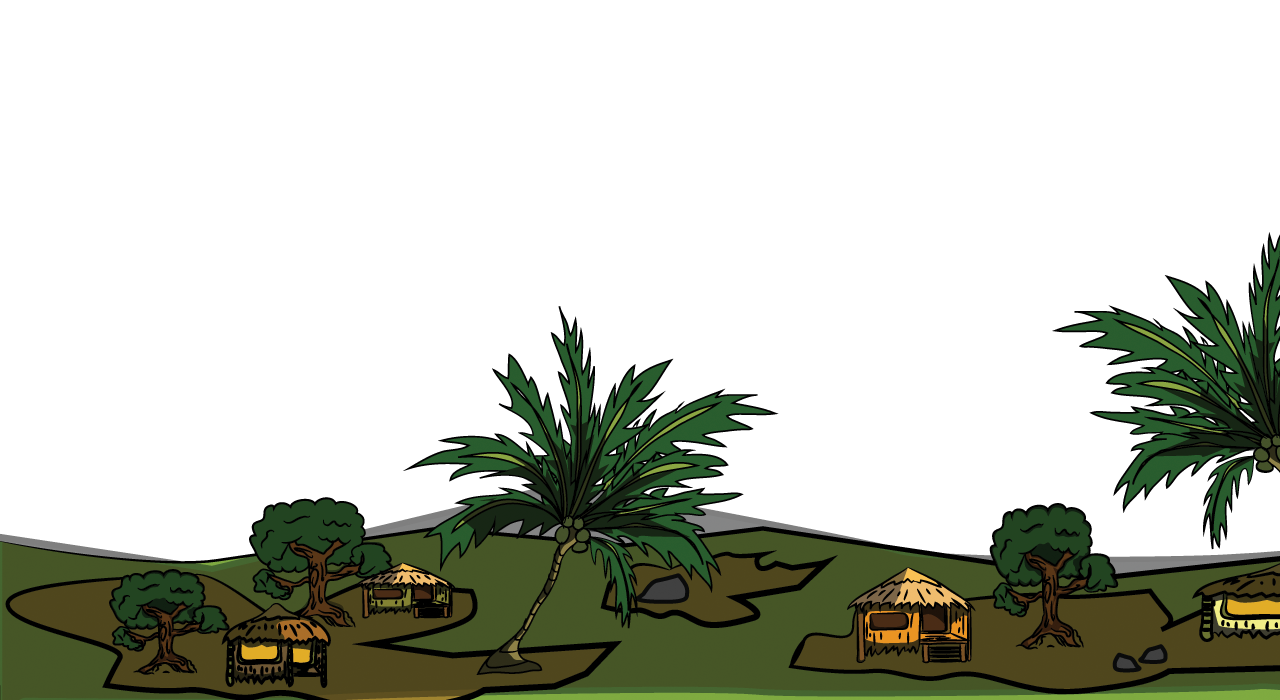
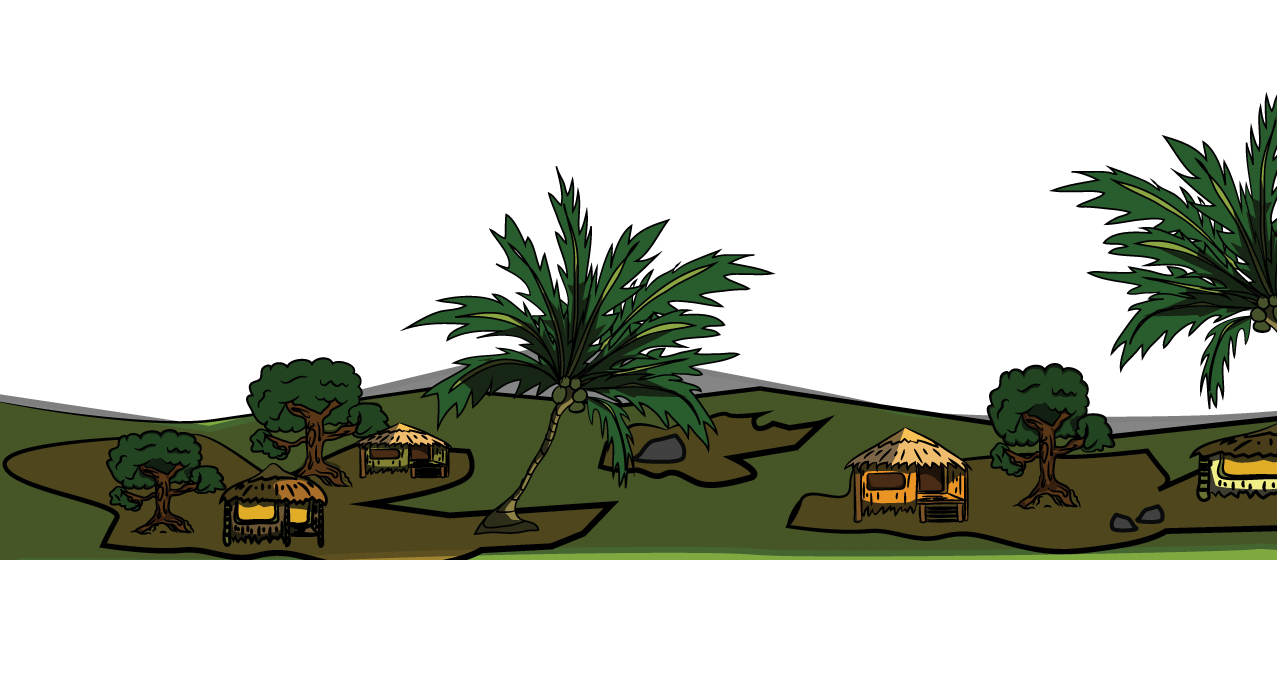
Fixed parallax bg position

diff --git a/parallax_bg.py b/parallax_bg.py
@@ -15,23 +15,23 @@ class ParallaxBG(Widget):
     self.cloud_1 = self.left_img(constants.CLOUD_SPEED, constants.CLOUD_LEFT_BG)
     self.cloud_2 = self.right_img(constants.CLOUD_RIGHT_BG, self.cloud_1)
 
-    self.barrio_1 = self.left_img(constants.BARRIO_SPEED, constants.BARRIO_LEFT_BG, pos=(0, 140))
-    self.barrio_2 = self.right_img(constants.BARRIO_RIGHT_BG, self.barrio_1, y=140)
+    self.barrio_1 = self.left_img(constants.BARRIO_SPEED, constants.BARRIO_LEFT_BG)
+    self.barrio_2 = self.right_img(constants.BARRIO_RIGHT_BG, self.barrio_1)
 
     self.ground_1 = self.left_img(constants.GROUND_SPEED, constants.GROUND_LEFT_BG)
     self.ground_2 = self.right_img(constants.GROUND_RIGHT_BG, self.ground_1)
 
-  def left_img(self, speed, img_source, pos=(0,0)):
-    obj = ParallaxIMG(speed, source=img_source)
+  def left_img(self, speed, img_source):
+    initial_pos = (0,0)
+    obj = ParallaxIMG(speed, initial_pos, pos=initial_pos, source=img_source)
     obj.size = obj.texture_size
-    obj.pos = pos
     self.add_widget(obj)
     return obj
 
-  def right_img(self, img_source, left_img, y=0):
-    obj = ParallaxIMG(left_img.speed, source=img_source)
+  def right_img(self, img_source, left_img):
+    initial_pos = (left_img.x + left_img.width, left_img.y)
+    obj = ParallaxIMG(left_img.speed, initial_pos, pos=initial_pos, source=img_source)
     obj.size = obj.texture_size
-    obj.pos = (left_img.x + left_img.width, y)
     self.add_widget(obj)
     return obj
 
@@ -60,11 +60,10 @@ class ParallaxBG(Widget):
     self.ground_2.reset()
 
 class ParallaxIMG(Image):
-  def __init__(self, speed, **kwargs):
+  def __init__(self, speed, initial_pos, **kwargs):
     super(ParallaxIMG, self).__init__(**kwargs)
-    self.initial_pos = self.pos
+    self.initial_pos = initial_pos
     self.speed = speed
-    self.anchor = (0, 0)
 
   def reset(self):
     self.pos = self.initial_pos
